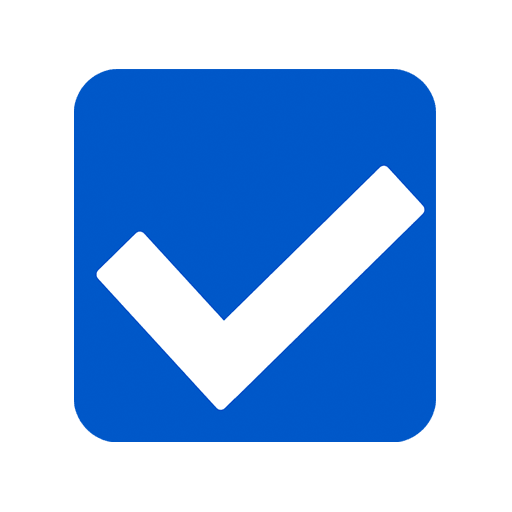
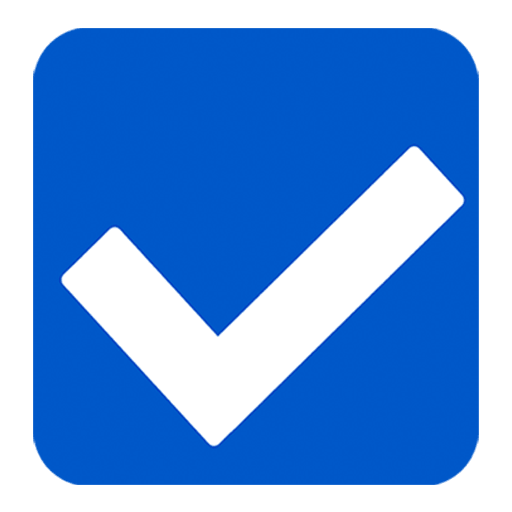
edito iconos

diff --git a/vite.config.js b/vite.config.js
@@ -25,13 +25,14 @@ export default defineConfig({
           {
             src: '/pwa-512x512.png',
             sizes: '512x512',
-            type: 'image/png'
+            type: 'image/png',
+            purpose: 'any'
           },
           {
-            src: '/pwa-512x512.png',
+            src: '/maskable-icon-512x512.png',
             sizes: '512x512',
             type: 'image/png',
-            purpose: 'any maskable' 
+            purpose: 'maskable' 
           }
         ]
       }